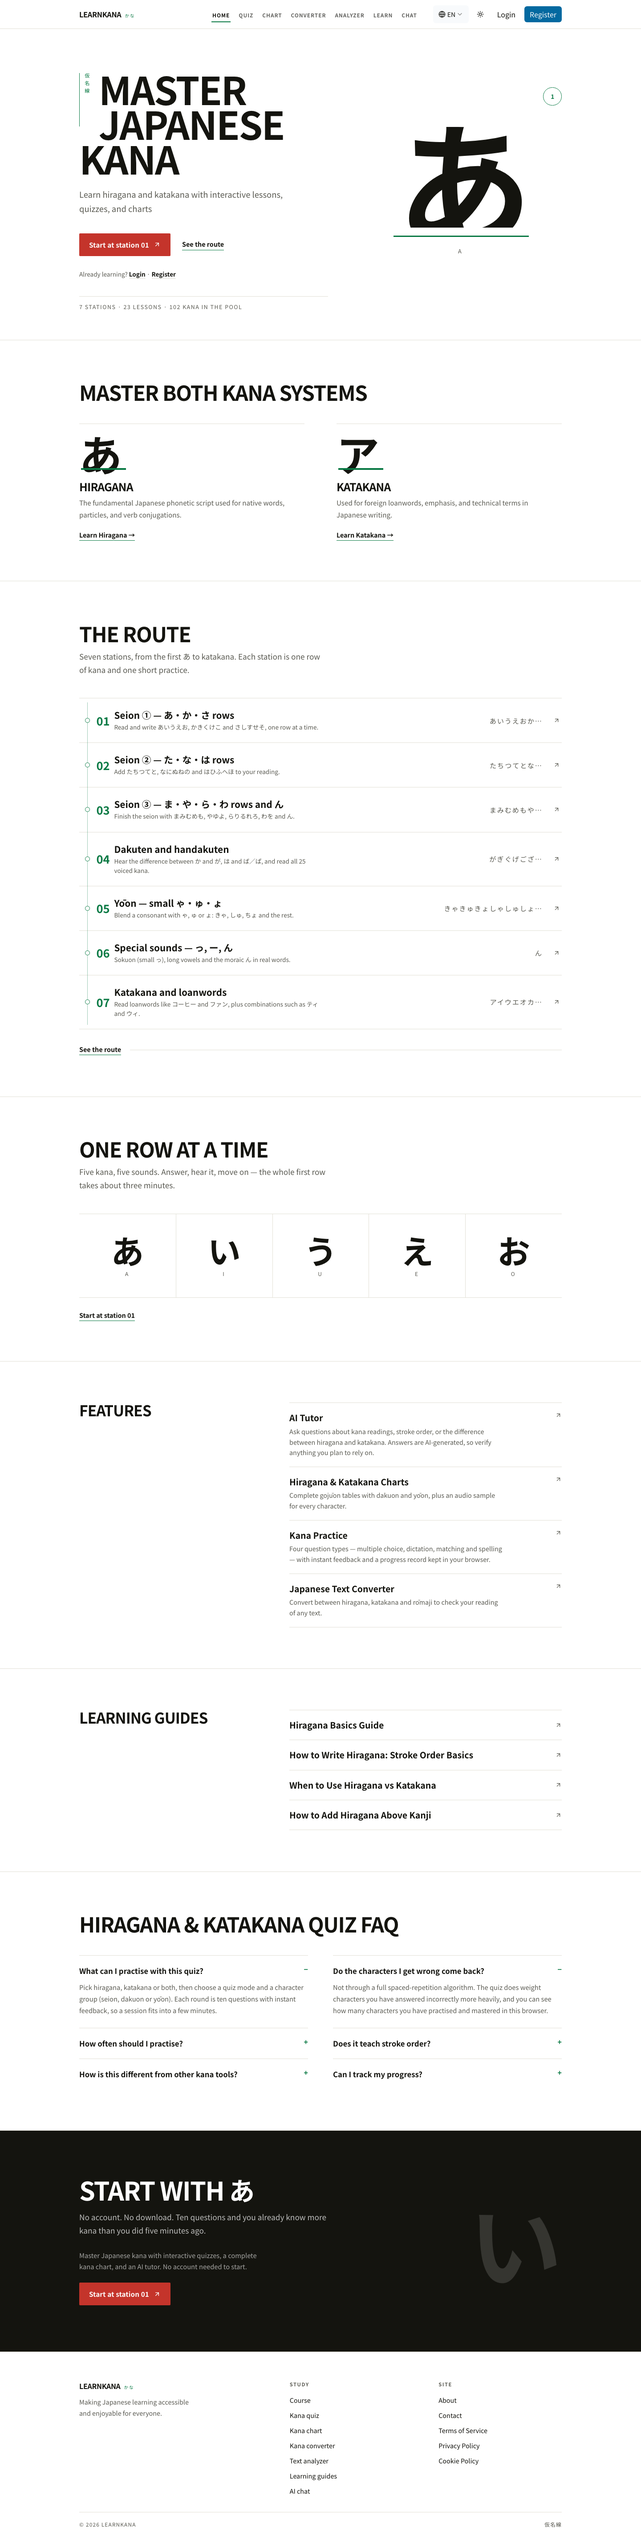
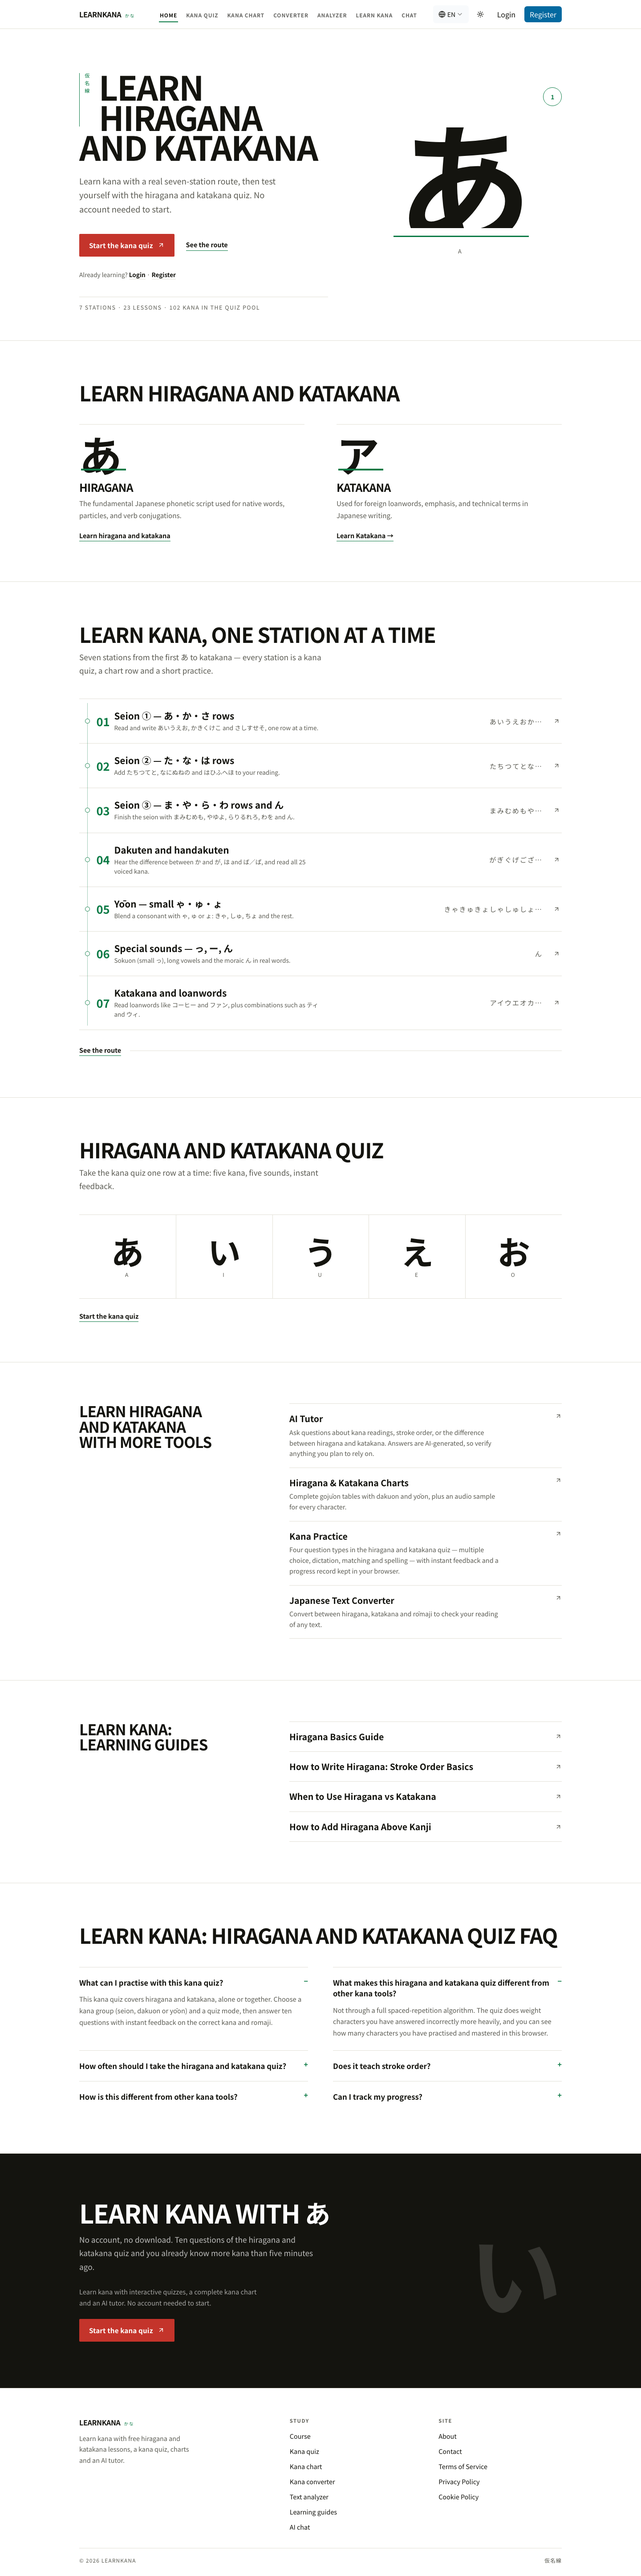
copy(home): lead with the four target keywords (learn hiragana and katakana / learn kana / hiragana and katakana quiz / kana quiz)

diff --git a/src/components/layouts/footer.tsx b/src/components/layouts/footer.tsx
@@ -35,7 +35,7 @@ export default function Footer() {
               LearnKana
               <span lang="ja">かな</span>
             </span>
-            <p>Making Japanese learning accessible and enjoyable for everyone.</p>
+            <p>Learn kana with free hiragana and katakana lessons, a kana quiz, charts and an AI tutor.</p>
           </div>
 
           {COLUMNS.map((column) => (

diff --git a/src/app/globals.css b/src/app/globals.css
@@ -185,7 +185,7 @@
 }
 
 .kl-hero-title {
-  font-size: clamp(2.6rem, 6.6vw, 5.4rem);
+  font-size: clamp(2.4rem, 5.4vw, 4.7rem);
   line-height: 0.9;
   margin: 0 0 clamp(18px, 2.4vw, 28px);
 }

diff --git a/DESIGN.md b/DESIGN.md
@@ -19,7 +19,7 @@ colors:
 typography:
   display:
     fontFamily: "Archivo, Noto Sans JP, sans-serif"
-    fontSize: "clamp(2.6rem, 6.6vw, 5.4rem)"
+    fontSize: "clamp(2.4rem, 5.4vw, 4.7rem)"
     fontWeight: 800
     lineHeight: 0.9
     letterSpacing: "-0.03em"
